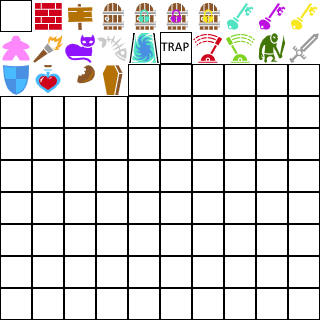
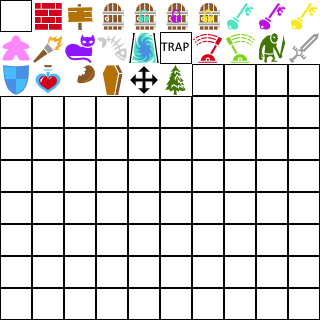
a new room

Changed region(s): [[0.4062, 0.1875, 0.5938, 0.3125]]

diff --git a/public/scripts/rooms/roomTemplates.js b/public/scripts/rooms/roomTemplates.js
@@ -6,6 +6,7 @@ class RoomTemplates{
         roomTemplates[ROOM_EAST_HALL]=loadJSON('assets/templates/rooms/eastHall.json');
         roomTemplates[ROOM_SOUTH_HALL]=loadJSON('assets/templates/rooms/southHall.json');
         roomTemplates[ROOM_WEST_HALL]=loadJSON('assets/templates/rooms/westHall.json');
+        roomTemplates[ROOM_OUTSET]=loadJSON('assets/templates/rooms/outset.json');
     }
     static copyTemplate(roomId){
         return Utility.copy(roomTemplates[roomId]);

diff --git a/public/scripts/rooms/roomIds.js b/public/scripts/rooms/roomIds.js
@@ -3,6 +3,7 @@ const ROOM_NORTH_HALL = "northHall";
 const ROOM_EAST_HALL = "eastHall";
 const ROOM_WEST_HALL = "westHall";
 const ROOM_SOUTH_HALL = "southHall";
+const ROOM_OUTSET = "outset";
 class RoomIds{
     static get ids(){
         return [
@@ -10,7 +11,8 @@ class RoomIds{
             ROOM_NORTH_HALL,
             ROOM_EAST_HALL,
             ROOM_SOUTH_HALL,
-            ROOM_WEST_HALL
+            ROOM_WEST_HALL,
+            ROOM_OUTSET
         ];
     }
 }

diff --git a/public/scripts/rooms/roomData.js b/public/scripts/rooms/roomData.js
@@ -6,6 +6,7 @@ class RoomData{
         roomDatas[ROOM_EAST_HALL]=loadStrings('assets/maps/eastHall.csv');
         roomDatas[ROOM_SOUTH_HALL]=loadStrings('assets/maps/southHall.csv');
         roomDatas[ROOM_WEST_HALL]=loadStrings('assets/maps/westHall.csv');
+        roomDatas[ROOM_OUTSET]=loadStrings('assets/maps/outset.csv');
     }
     static getData(roomId){
         return roomDatas[roomId];

diff --git a/public/scripts/cells.js b/public/scripts/cells.js
@@ -106,7 +106,8 @@ class Cells{
         return cell == CELL_SIGN;
     }
     static isExit(cell){
-        return cell == CELL_WOOD_DOOR;
+        return cell == CELL_WOOD_DOOR || 
+            cell == CELL_MAGIC_PORTAL;
     }
     static isItem(cell){
         return cell == CELL_KEY_CYAN 
